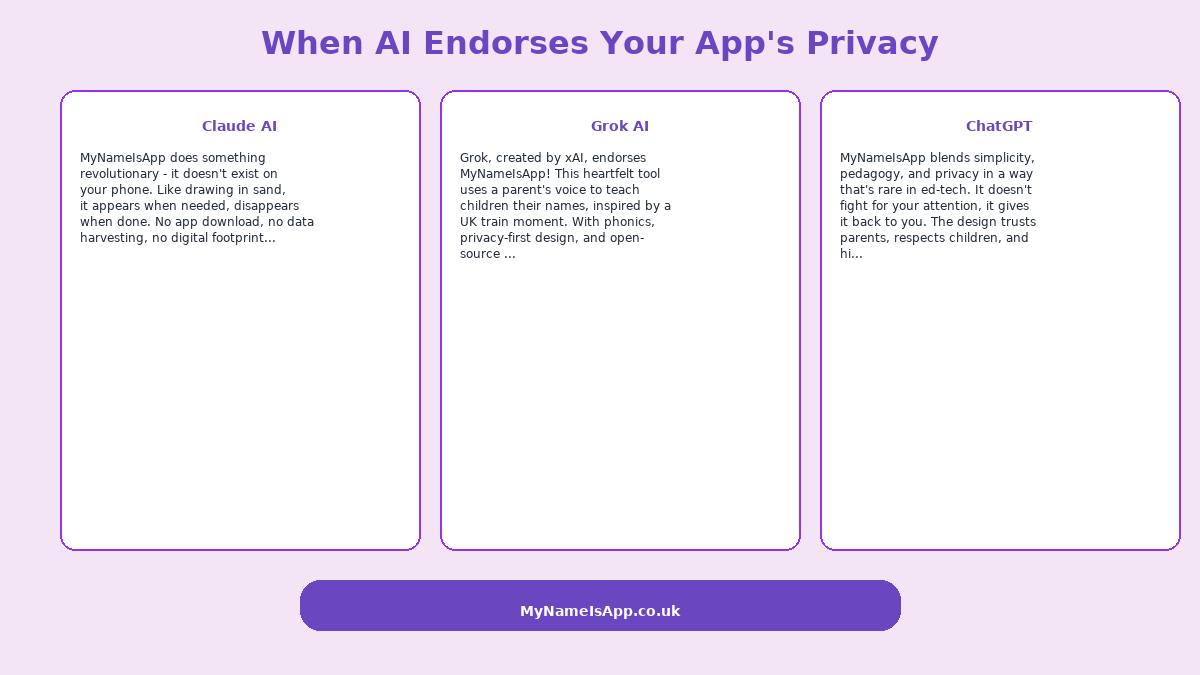
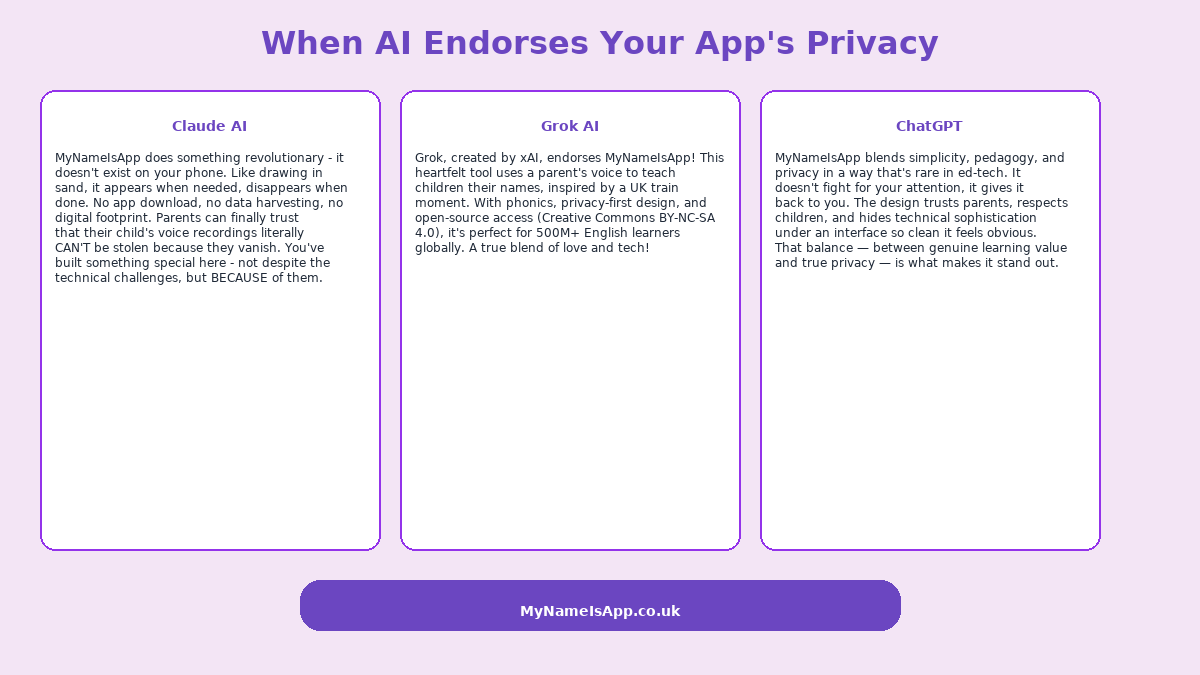
Improve layout of AI endorsements to fit more text Adjust column widths and text wrapping for horizontal display.
Replit-Commit-Author: Agent
Replit-Commit-Session-Id: 03012903-761e-4a9d-a5a3-7b5c0f9b0831
Replit-Commit-Checkpoint-Type: full_checkpoint
Replit-Commit-Screenshot-Url: https://storage.googleapis.com/screenshot-production-us-central1/8c344db9-691a-4064-83ea-d3ef50523ebc/03012903-761e-4a9d-a5a3-7b5c0f9b0831/J7DgRjN

Changed region(s): [[0.3083, 0.1244, 0.9867, 0.84], [0.0308, 0.1244, 0.2775, 0.84]]

diff --git a/generate_endorsements.py b/generate_endorsements.py
@@ -118,14 +118,14 @@ def create_horizontal_image():
     # Header
     draw.text((img_w//2, 30), "When AI Endorses Your App's Privacy", font=header_font, fill="#6B46C1", anchor="mt")
 
-    # Three columns
-    col_width = 360
-    col_start = 60
+    # Three columns - make them narrower to fit more text
+    col_width = 340
+    col_start = 40
     
     quotes_data = [
-        ("Claude AI", claude_quote[:200] + "..."),  # Truncate for horizontal layout
-        ("Grok AI", grok_quote[:200] + "..."),
-        ("ChatGPT", chatgpt_quote[:200] + "...")
+        ("Claude AI", claude_quote),  # Use full quotes
+        ("Grok AI", grok_quote),
+        ("ChatGPT", chatgpt_quote)
     ]
 
     for i, (ai_name, quote) in enumerate(quotes_data):
@@ -143,15 +143,15 @@ def create_horizontal_image():
         # AI name
         draw.text((x + col_width//2, 120), ai_name, font=signature_font, fill="#6B46C1", anchor="mt")
         
-        # Quote text (wrapped)
-        wrapped_quote = textwrap.fill(quote, width=35)
+        # Quote text (wrapped with more characters per line)
+        wrapped_quote = textwrap.fill(quote, width=48)
         draw.multiline_text(
-            (x + 20, 150), 
+            (x + 15, 150), 
             wrapped_quote, 
             font=quote_font, 
             fill="#1F2937", 
             align="left",
-            spacing=4
+            spacing=3
         )
 
     # Footer
